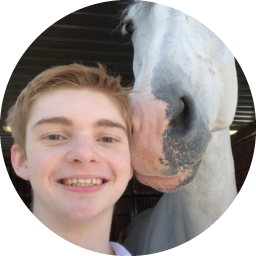
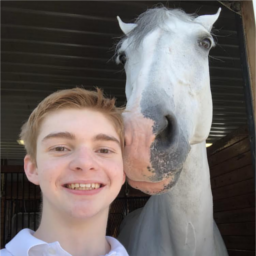
Add files via upload

diff --git a/index.html b/index.html
@@ -55,7 +55,7 @@
     <!-- Header -->
     <header class="masthead bg-primary text-white text-center">
       <div class="container">
-        <img class="img-fluid mb-5 d-block mx-auto" src="img/profile.png" alt="">
+        <img class="img-fluid mb-5 d-block mx-auto" src="img/profile.png" alt="" style="border-radius: 50%;">
         <h1 class="mb-0">Reade Plunkett</h1>
         <hr class="star-light">
         <h2 class="font-weight-light mb-0">iOS Developer | Graphic Designer | Engineer</h2>
@@ -140,7 +140,7 @@
           </div>
           <div class="col-md-6 col-lg-4">
             <div class="header">
-              <img src="img/icons/dhsappicon.png"/>
+              <img src="img/icons/partiicon.png"/>
               <h3>Parti</h3>
             </div>
             <a class="portfolio-item d-block mx-auto" href="#portfolio-modal-6">
@@ -159,6 +159,7 @@
     <!-- About Section -->
     <section class="bg-primary text-white mb-0" id="about">
       <div class="container">
+        <img class="img-fluid mb-5 d-block mx-auto" src="img/profile2.png" width="150px" alt="" style="margin-bottom: 20px!important; margin-top: -50px !important; border-radius: 50%;">
         <h2 class="text-center text-white">About</h2>
         <hr class="star-light mb-5">
         <div class="row">
@@ -227,44 +228,48 @@
       <div class="container">
         <div class="row">
           <div class="col-md-4 mb-5 mb-lg-0">
+<!--
             <h4 class="mb-4">Location</h4>
             <p class="lead mb-0">2215 John Daniel Drive
               <br>Clark, MO 65243</p>
+-->
           </div>
           <div class="col-md-4 mb-5 mb-lg-0">
-            <h4 class="mb-4">Around the Web</h4>
+            <h4 class="mb-4">Find Me on the Web</h4>
             <ul class="list-inline mb-0">
               <li class="list-inline-item">
-                <a class="btn btn-outline-light btn-social text-center rounded-circle" href="https://www.facebook.com/reade.plunkett">
-                  <i class="fa fa-fw fa-facebook"></i>
-                </a>
-              </li>
-              <li class="list-inline-item">
-                <a class="btn btn-outline-light btn-social text-center rounded-circle" href="#">
-                  <i class="fa fa-fw fa-google-plus"></i>
-                </a>
-              </li>
-              <li class="list-inline-item">
-                <a class="btn btn-outline-light btn-social text-center rounded-circle" href="#">
-                  <i class="fa fa-fw fa-twitter"></i>
-                </a>
-              </li>
-              <li class="list-inline-item">
-                <a class="btn btn-outline-light btn-social text-center rounded-circle" href="#">
+                <a class="btn btn-outline-light btn-social text-center rounded-circle" href="https://www.linkedin.com/in/reade-plunkett-74b60a143/" target="_blank">
                   <i class="fa fa-fw fa-linkedin"></i>
                 </a>
               </li>
               <li class="list-inline-item">
-                <a class="btn btn-outline-light btn-social text-center rounded-circle" href="#">
-                  <i class="fa fa-fw fa-dribbble"></i>
+                <a class="btn btn-outline-light btn-social text-center rounded-circle" href="https://github.com/ReadeP" target="_blank">
+                  <i class="fa fa-fw fa-github"></i>
+                </a>
+              </li>
+              <li class="list-inline-item">
+                <a class="btn btn-outline-light btn-social text-center rounded-circle" href="#" target="_blank">
+                  <i class="fa fa-fw fa-twitter"></i>
+                </a>
+              </li>
+              <li class="list-inline-item">
+                <a class="btn btn-outline-light btn-social text-center rounded-circle" href="https://www.instagram.com/reade_plunkett/" target="_blank">
+                  <i class="fa fa-fw fa-instagram"></i>
+                </a>
+              </li>
+              <li class="list-inline-item">
+                <a class="btn btn-outline-light btn-social text-center rounded-circle" href="mailto:readeplunkett@gmail.com">
+                  <i class="fa fa-fw fa-envelope-o"></i>
                 </a>
               </li>
             </ul>
           </div>
           <div class="col-md-4">
+<!--
             <h4 class="mb-4">About Freelancer</h4>
             <p class="lead mb-0">Freelance is a free to use, open source Bootstrap theme created by
               <a href="http://startbootstrap.com">Start Bootstrap</a>.</p>
+-->
           </div>
         </div>
       </div>
@@ -297,11 +302,11 @@
               <h2 class="text-secondary mb-0">Gummy Gap</h2>
               <hr class="star-dark mb-5">
               <div class="game-info">
-                <img class="img-fluid mb-5" src="img/popup/gummygap.png" width="300" alt="">
+                <img class="img-fluid mb-5" src="img/popup/gummygap.png" width="300px" alt="">
                 <p class="mb-5">Gummy Gap is a game in which the player must maneuver their gummy between a series of pipes to avoid getting hit and have their Gummy squished. Every time the player’s Gummy makes it past one of the pipes, the player is  awarded one point. During the stages between pipes, the player has the option to collect randomly generated coins which can be used to purchase new Gummies in the shop. In-app purchases offer opportunities to buy more coins and remove ads. The game supports Game Center so that players can compete against their friends to see who can obtain the highest score.</p>
                 <p class="mb-5">Gummy Gap was developed in a span of a month. It was first started in late February of 2016 and released on March 25, 2016. All code was written in Xcode 7 using Swift 2.0. SpriteKit was the core library used to render all graphics and all of the assets were designed using GIMP.</p>
                 <a href="https://itunes.apple.com/us/app/gummy-gap/id1094902231?mt=8" target="_blank">
-                    <img class="img-fluid mb-5" src="img/popup/download.png" width="200" alt="">
+                    <img class="img-fluid mb-5" src="img/popup/download.png" width="200px" alt="">
                 </a>
               </div>
             </div>
@@ -325,15 +330,19 @@
               <h2 class="text-secondary mb-0">Mining Madness</h2>
               <hr class="star-dark mb-5">
               <div class="game-info">
-                <img class="img-fluid mb-5" src="img/popup/miningmadness.png" width="300" alt="">
-                <p class="mb-5">Lorem ipsum dolor sit amet, consectetur adipisicing elit. Mollitia neque assumenda ipsam nihil, molestias magnam, recusandae quos quis inventore quisquam velit asperiores, vitae? Reprehenderit soluta, eos quod consequuntur itaque. Nam.</p>
+                <img class="img-fluid mb-5" src="img/popup/miningmadness.png" width="300px" alt="">
+                <p class="mb-5">In Mining Madness, the player must move their minecart to avoid the falling rocks. The cave is collapsing and all the precious gold can not be lost! Using this gold, the player has the option to purchase different colored rocks to customize their game. In-app purchases offer opportunities to buy more coins and remove ads. The game supports Game Center so that players can compete against their friends to see who can achieve the highest score.</p>
+                <p class="mb-5">Mining Madness was developed in a span of a few weeks. It was started in early April and was released on June 2, 2016. All code was written in Xcode 7 using Swift 2.0. SpriteKit was used as the core framework for all the graphics, physics, and collisions. All sprites were designed in GIMP.</p>
+                <a href="https://itunes.apple.com/us/app/mining-madness/id1095058215?mt=8" target="_blank">
+                    <img class="img-fluid mb-5" src="img/popup/download.png" width="200px" alt="">
+                </a>
               </div>
-              <a class="btn btn-primary btn-lg rounded-pill portfolio-modal-dismiss" href="#">
-                <i class="fa fa-close"></i>
-                Close</a>
             </div>
           </div>
         </div>
+          <a class="btn btn-primary btn-lg rounded-pill portfolio-modal-dismiss btn-close" href="#">
+                <i class="fa fa-close"></i>
+                Close</a>
       </div>
     </div>
 
@@ -349,8 +358,9 @@
               <h2 class="text-secondary mb-0">Rong</h2>
               <hr class="star-dark mb-5">
               <div class="game-info">
-                <img class="img-fluid mb-5" src="img/popup/rong.png" width="300" alt="">
-                <p class="mb-5">Lorem ipsum dolor sit amet, consectetur adipisicing elit. Mollitia neque assumenda ipsam nihil, molestias magnam, recusandae quos quis inventore quisquam velit asperiores, vitae? Reprehenderit soluta, eos quod consequuntur itaque. Nam.</p>
+                <img class="img-fluid mb-5" src="img/popup/rong.png" width="300px" alt="">
+                <p class="mb-5">Rong is my newest mobile game. It has been in development for about two weeks being started in early July. I hope to release the game sometime in August, putting the development period at about one month. The game will feature in-app purchases, advertisements, and customization.</p>
+                <p class="mb-5">Rong is being developed with SpriteKit. Unlike my other SpriteKit games, this one will feature audio and sound effects that are powered by AVFoundation and SpriteKit's audio engine. Stay tuned for more features and gameplay. All assets displayed are not officially subject to be in the final verion of the game.</p>
               </div>
               <a class="btn btn-primary btn-lg rounded-pill portfolio-modal-dismiss" href="#">
                 <i class="fa fa-close"></i>
@@ -373,15 +383,19 @@
               <h2 class="text-secondary mb-0">Detour</h2>
               <hr class="star-dark mb-5">
               <div class="game-info">
-                <img class="img-fluid mb-5" src="img/popup/detour.png" width="300" alt="">
-                <p class="mb-5">Lorem ipsum dolor sit amet, consectetur adipisicing elit. Mollitia neque assumenda ipsam nihil, molestias magnam, recusandae quos quis inventore quisquam velit asperiores, vitae? Reprehenderit soluta, eos quod consequuntur itaque. Nam.</p>
+                <img class="img-fluid mb-5" src="img/popup/detour.png" width="300px" alt="">
+                <p class="mb-5">Detour is a voxel-styled arcade racing game where accuracy is the key to winning. Stay on the road for as long as possible and watch out for any obstacles that will cause you to take a detour. Detour features five unique environments that the player can interact with in addition to over 10 different vehicles. Players can donate using in-app purchases to remove advertisements.</p>
+                <p class="mb-5">Detour was developed over the course of one month for a competition with the theme of cars. The competition was hosted by the iOS developer and YouTuber Jared Davidson who currently has over 60,000 subscribers. Detour was the winner of the contest and was officially released on October 31, 2016. Detour was developed using SceneKit to render the 3D models, SpriteKit to render the user interface, and AVFoundation to play sound effects and audio files. All voxel models were created in MagicaVoxel and all user interface components were designed using GIMP.</p>
+                <a href="https://itunes.apple.com/us/app/detour/id1161175314?mt=8" target="_blank">
+                    <img class="img-fluid mb-5" src="img/popup/download.png" width="200px" alt="">
+                </a>
               </div>
-              <a class="btn btn-primary btn-lg rounded-pill portfolio-modal-dismiss" href="#">
-                <i class="fa fa-close"></i>
-                Close</a>
             </div>
           </div>
         </div>
+          <a class="btn btn-primary btn-lg rounded-pill portfolio-modal-dismiss btn-close" href="#">
+                <i class="fa fa-close"></i>
+                Close</a>
       </div>
     </div>
 
@@ -397,7 +411,7 @@
               <h2 class="text-secondary mb-0">DHS Schedule</h2>
               <hr class="star-dark mb-5">
               <div class="game-info">
-                <img class="img-fluid mb-5" src="img/popup/dhsapp.png" width="300" alt="">
+                <img class="img-fluid mb-5" src="img/popup/dhsapp.png" width="300px" alt="">
                 <p class="mb-5">Lorem ipsum dolor sit amet, consectetur adipisicing elit. Mollitia neque assumenda ipsam nihil, molestias magnam, recusandae quos quis inventore quisquam velit asperiores, vitae? Reprehenderit soluta, eos quod consequuntur itaque. Nam.</p>
               </div>
               <a class="btn btn-primary btn-lg rounded-pill portfolio-modal-dismiss" href="#">
@@ -421,7 +435,7 @@
               <h2 class="text-secondary mb-0">Parti</h2>
               <hr class="star-dark mb-5">
               <div class="game-info">
-                <img class="img-fluid mb-5" src="img/popup/parti.png" width="300" alt="">
+                <img class="img-fluid mb-5" src="img/popup/parti.png" width="300px" alt="">
                 <p class="mb-5">Lorem ipsum dolor sit amet, consectetur adipisicing elit. Mollitia neque assumenda ipsam nihil, molestias magnam, recusandae quos quis inventore quisquam velit asperiores, vitae? Reprehenderit soluta, eos quod consequuntur itaque. Nam.</p>
               </div>
               <a class="btn btn-primary btn-lg rounded-pill portfolio-modal-dismiss" href="#">

diff --git a/css/freelancer.css b/css/freelancer.css
@@ -42,15 +42,15 @@ hr.star-light {
 
 hr.star-light:after {
   color: #fff;
-  background-color: #18BC9C;
+  background-color: #39A9DB;
 }
 
 hr.star-dark {
-  border-color: #2C3E50;
+  border-color: #274060;
 }
 
 hr.star-dark:after {
-  color: #2C3E50;
+  color: #274060;
   background-color: white;
 }
 
@@ -117,7 +117,7 @@ section h2 {
 }
 
 #mainNav .navbar-nav li.nav-item a.nav-link:hover {
-  color: #18BC9C;
+  color: #39A9DB;
 }
 
 #mainNav .navbar-nav li.nav-item a.nav-link:active, #mainNav .navbar-nav li.nav-item a.nav-link:focus {
@@ -125,7 +125,7 @@ section h2 {
 }
 
 #mainNav .navbar-nav li.nav-item a.nav-link.active {
-  color: #18BC9C;
+  color: #39A9DB;
 }
 
 #mainNav .navbar-toggler {
@@ -152,11 +152,11 @@ section h2 {
   }
   #mainNav .navbar-nav > li.nav-item > a.nav-link.active {
     color: #fff;
-    background: #18BC9C;
+    background: #39A9DB;
   }
   #mainNav .navbar-nav > li.nav-item > a.nav-link.active:active, #mainNav .navbar-nav > li.nav-item > a.nav-link.active:focus, #mainNav .navbar-nav > li.nav-item > a.nav-link.active:hover {
     color: #fff;
-    background: #18BC9C;
+    background: #39A9DB;
   }
   #mainNav.navbar-shrink {
     padding-top: 0.5rem;
@@ -212,7 +212,7 @@ header.masthead h2 {
   -moz-transition: all ease 0.5s;
   transition: all ease 0.5s;
   opacity: 0;
-  background-color: rgba(24, 188, 156, 0.9);
+  background-color: rgba(57, 169, 219, 0.9);
 }
 
 .portfolio .portfolio-item .portfolio-item-caption:hover {
@@ -329,7 +329,7 @@ header.masthead h2 {
 }
 
 .floating-label-form-group-with-focus label {
-  color: #18BC9C;
+  color: #39A9DB;
 }
 
 form .row:first-child .floating-label-form-group {
@@ -339,7 +339,7 @@ form .row:first-child .floating-label-form-group {
 .footer {
   padding-top: 5rem;
   padding-bottom: 5rem;
-  background-color: #2C3E50;
+  background-color: #274060;
   color: #fff;
 }
 
@@ -348,11 +348,11 @@ form .row:first-child .floating-label-form-group {
 }
 
 a {
-  color: #18BC9C;
+  color: #39A9DB;
 }
 
 a:focus, a:hover, a:active {
-  color: #128f76;
+  color: #1c83b1;
 }
 
 .btn {
@@ -360,34 +360,34 @@ a:focus, a:hover, a:active {
 }
 
 .bg-primary {
-  background-color: #18BC9C !important;
+  background-color: #39A9DB !important;
 }
 
 .bg-secondary {
-  background-color: #2C3E50 !important;
+  background-color: #274060 !important;
 }
 
 .text-primary {
-  color: #18BC9C !important;
+  color: #39A9DB !important;
 }
 
 .text-secondary {
-  color: #2C3E50 !important;
+  color: #274060 !important;
 }
 
 .btn-primary {
-  background-color: #18BC9C;
-  border-color: #18BC9C;
+  background-color: #39A9DB;
+  border-color: #39A9DB;
 }
 
 .btn-primary:hover, .btn-primary:focus, .btn-primary:active {
-  background-color: #128f76;
-  border-color: #128f76;
+  background-color: #1c83b1;
+  border-color: #1c83b1;
 }
 
 .btn-secondary {
-  background-color: #2C3E50;
-  border-color: #2C3E50;
+  background-color: #274060;
+  border-color: #274060;
 }
 
 .btn-secondary:hover, .btn-secondary:focus, .btn-secondary:active {
@@ -410,6 +410,7 @@ div.game-info > img {
 div.header h3 {
     bottom: 6px;
     position: relative;
+    margin-top: 30px;
 }
 
 .col-md-6.col-lg-4 {
